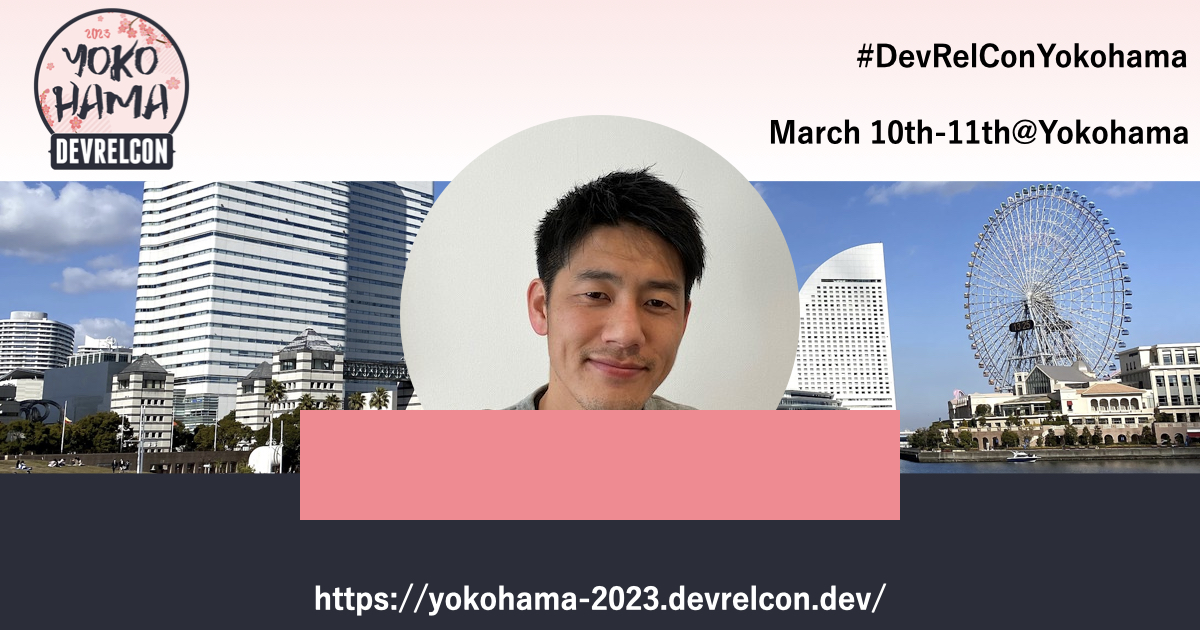
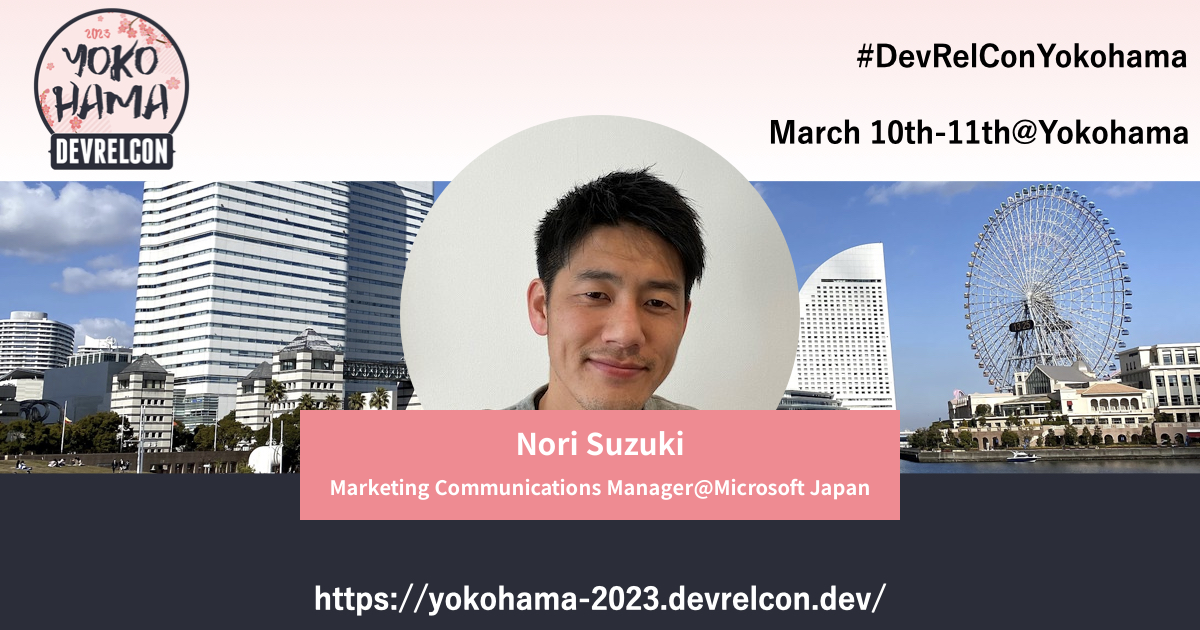
temporary update

Changed region(s): [[0.2775, 0.754, 0.74, 0.7841], [0.4317, 0.6937, 0.5858, 0.7238]]

diff --git a/organizers/nori.md b/organizers/nori.md
@@ -1,9 +1,9 @@
 ---
 layout: person
 permalink: /organizers/nori/
-title: 鈴木 教之@Microsoft
+title: 鈴木 教之@日本マイクロソフト
 ogp: /assets/images/ogp/nori.jpg
 type: organizer
 id: nori
 ---
-IT系出版社にて技術書籍の編集やWebメディアの運営、テックカンファレンスの企画など10年以上の編集経験を経て、畑違いの外資系企業に。現在は日本マイクロソフト株式会社でMicrosoft Azureのマーケティングコミュニケーションを担当。好きなオープンソースはRe:VIEW。VS Code Meetupをはじめ多くの技術コミュニティを運営している。
+IT系出版社にて技術書籍の編集やWebメディアの運営、テックカンファレンスの企画など10年以上の編集経験を経て、畑違いの外資系企業に。現在は日本マイクロソフト株式会社でMicrosoft Azureのマーケティングコミュニケーションを担当。VS Code Meetupをはじめ多くの技術コミュニティを運営している。

diff --git a/speakers/jun.md b/speakers/jun.md
@@ -1,0 +1,8 @@
+---
+layout: person
+permalink: /speakers/jun/
+title: Jun Fujita@mabl K.K.
+ogp: /assets/images/ogp/jun.jpg
+type: speaker
+id: jun
+---
